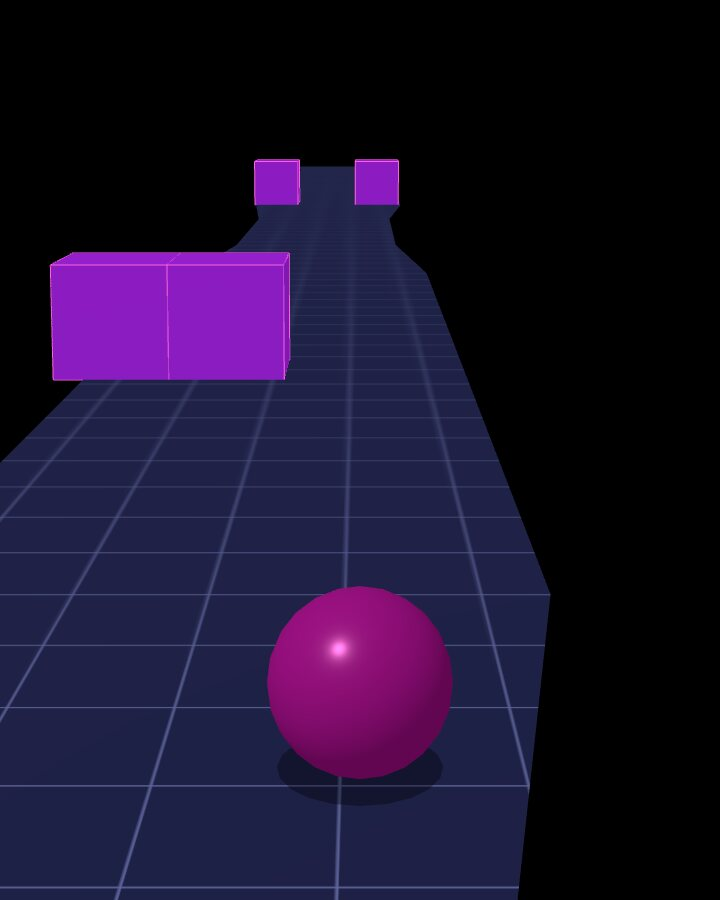
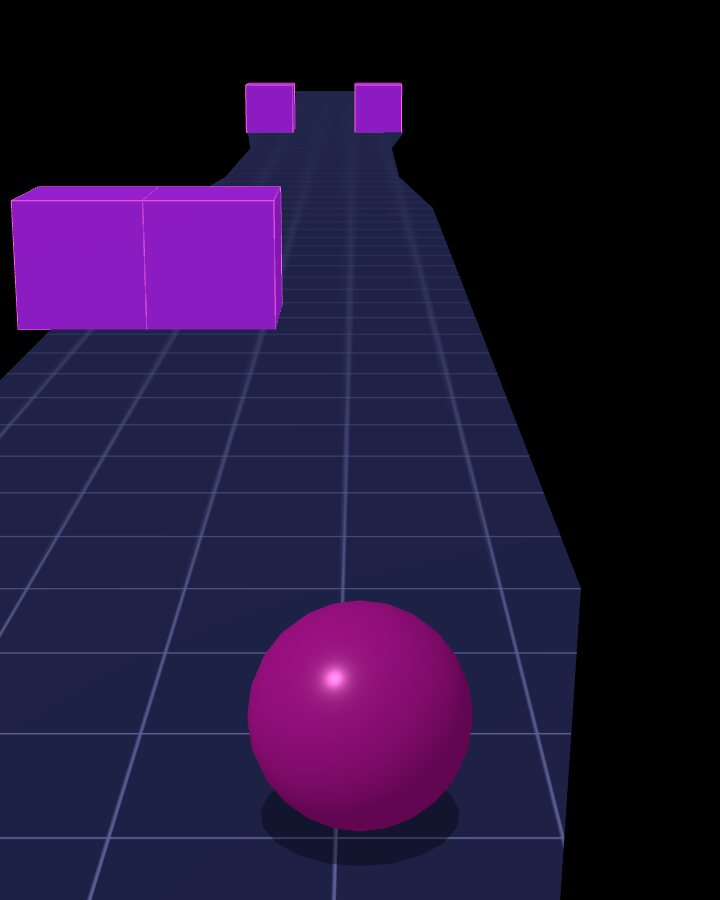
Ball Run: the reference game's controls (camera locked to the ball, instant drag at 4x)
Matt: "This is what we're cloning ... replicate the controls", then on the test page "build it
with x4". Hold and drag moves the ball at once, 31.8 world units per screen height (the test
page's 4x), no smoothing, top speed, or acceleration. The camera is locked to the ball sideways,
so the ball never moves on screen (the recording: 201.7 +-1.5 of 402 px). Framing from the
recording (camera 3.5 up, 6.2 back, FOV 60). Arrow keys unchanged. How to play pictures re-shot.
Replaces the same day's owed distance, pointer acceleration, steer cap, and camera window.

CACHE v1678, IMPORTANT_SINCE 1678.

Claude-Session: https://claude.ai/code/session_01BGm65ZbjktmMvaKLeBqAJx

diff --git a/ball-run/js/config.js b/ball-run/js/config.js
@@ -154,25 +154,16 @@ export const DEFAULT_DIFFICULTY = 'medium';
 // easy to retune from one place; input.js reads it, doesn't own it.
 // Verified from scratch after the item-1 sign fix (BASE_TRACK_WIDTH * BALL_DIAMETER
 // world units of travel over a 0.4 normalized swipe): 5 / 0.4 = 12.5, unchanged.
-export const DRAG_SENSITIVITY = 12.5; // world units of lateral offset per 1.0 of normalized (screen-width-relative) drag
+export const DRAG_SENSITIVITY = 12.5; // arrow keys only since 2026-11-25 (a held key moves 1.6 x this a second, capped); a finger uses DRAG_UNITS_PER_SCREEN_HEIGHT
 export const LATERAL_MAX_SPEED_BASE = 15; // world units/sec at base forward speed
 export const LATERAL_SPEED_SCALE_WITH_FORWARD = 0.5; // fraction of forward-speed growth that adds to lateral max speed
 export const LATERAL_DAMPING = 14; // how fast lateral velocity approaches its target (1/sec)
-// Steering rebuilt (2026-11-25, Matt: "i have to pick up my thumb and move it somewhere else frequently ... it's just not a
-// good steering system"). His touch log (Orbital, Hard): a thumb covers ~100-340 px of a 402 px screen, and press after press
-// ended at a side, lifted 0.1-0.4 s, and started again mid-screen: at 12.5 a move from one lane of a split (13 BW wide) to the
-// other needed ~70% of the screen. Two changes, the way a computer mouse and Rolling Sky-style ball games do it:
-//  1. POINTER ACCELERATION (input.js): a slow, careful drag moves the ball DRAG_GAIN_SLOW x DRAG_SENSITIVITY per screen width
-//     (precision), a quick one up to DRAG_GAIN_FAST x (reach), smoothly between DRAG_V_SLOW and DRAG_V_FAST screen widths/s.
-//     A lane-to-lane move of a split now fits in ~35% of the screen.
-//  2. The ball's own sideways top speed (STEER_MAX_SPEED_BASE, sim.js only) rose from 15 so the ball keeps up with the thumb
-//     instead of trailing it. Track generation still spaces obstacles by LATERAL_MAX_SPEED_BASE (unchanged), so every seed lays
-//     out exactly as before.
-export const DRAG_GAIN_SLOW = 1.1;  // 1.3 for an hour on 2026-11-25: "a bit twitchy now"
-export const DRAG_GAIN_FAST = 1.75; // 2.1 the same hour
-export const DRAG_V_SLOW = 0.5;   // screen widths per second
-export const DRAG_V_FAST = 1.6;
-export const STEER_MAX_SPEED_BASE = 24; // world units/sec at base forward speed (was LATERAL_MAX_SPEED_BASE, 15)
+// STEERING, COPIED FROM MATT'S REFERENCE GAME (2026-11-25, Matt: "This is what we're cloning ... replicate the controls", then,
+// on the test page docs/mockups/ball-run-controls/, "build it with x4"). Hold and drag: the ball moves at once, no smoothing,
+// no top speed, no acceleration. "4x" = 4 x the ground under the finger at the test page's camera, which works out to this
+// many world units per screen HEIGHT of drag (4 x 2 x hypot(3, 6.2) x tan(30 deg) = 31.8), the same on every phone shape.
+// (Three earlier passes the same day, pointer acceleration, a faster steer cap and an owed distance, are gone.)
+export const DRAG_UNITS_PER_SCREEN_HEIGHT = 31.8;
 
 // Camera. Height/back/look-ahead retuned for item 3 (shorter phone canvas):
 // the ball now sits in the lower third of the frame with a generous forward
@@ -182,26 +173,15 @@ export const STEER_MAX_SPEED_BASE = 24; // world units/sec at base forward speed
 // it, yaw aligned to the local tangent) so a curve turns the world around a visually planted ball,
 // with only this small lag/easing producing on-screen lateral motion, never the curve itself.
 export const CAMERA_LAG = 0.12; // lerp factor per 1/CAMERA_LAG_HZ seconds toward the ball's lateral position (per frame until 2026-11-16)
-// CAMERA WINDOW (2026-11-25, Matt, third time: "if i'm way on the left, and i move over to the right quickly, it looks like the
-// ball slowly drifts back to the left after going all the way right. as the camera moves to follow it"). The camera used to
-// chase the ball's sideways position with a lag (CAMERA_LAG), so after every quick move it kept moving after the ball had
-// stopped and the ball slid back toward the middle of the screen. Now the side-scroller "camera window": the camera does not
-// move while the ball is within CAMERA_WINDOW world units of it, and past that it moves exactly as far as the ball goes, at
-// the same moment. When the ball stops, the camera stops: nothing ever slides back. (Height still uses CAMERA_LAG.)
-export const CAMERA_WINDOW = 1.1;
-/** The camera's sideways position after the ball moved to `ball`: unchanged inside the window, else dragged along. */
-export function cameraWindowFollow(cam, ball, win = CAMERA_WINDOW) {
-  const d = ball - cam;
-  if (d > win) return ball - win;
-  if (d < -win) return ball + win;
-  return cam;
-}
+// The camera is LOCKED to the ball sideways (2026-11-25, "build it with x4"): Matt's reference game keeps the ball's centre
+// within 3 px of the middle of the screen for a whole run; the world slides under it. (The CAMERA_LAG chase, then a camera
+// window, the same day, are gone.) Height still follows with CAMERA_LAG.
 export const CAMERA_LAG_HZ = 120; // the frame rate CAMERA_LAG was felt at (Matt's 120 Hz iPhone): the follow is the same at any frame rate
-export const CAMERA_HEIGHT = 3.6;
-export const CAMERA_BACK = 7.5;
-export const CAMERA_LOOK_AHEAD = 10;
-export const CAMERA_LOOK_HEIGHT_FRAC = 0.42; // fraction of CAMERA_HEIGHT the look-at target sits at (lower = steeper downward pitch)
-export const CAMERA_BASE_FOV = 62;
+export const CAMERA_HEIGHT = 3.5;   // the reference's framing (2026-11-25): ball ~29% of the screen wide, ~65% down
+export const CAMERA_BACK = 6.2;
+export const CAMERA_LOOK_AHEAD = 6;
+export const CAMERA_LOOK_HEIGHT_FRAC = 0.186; // fraction of CAMERA_HEIGHT the look-at target sits at (lower = steeper downward pitch)
+export const CAMERA_BASE_FOV = 60;
 export const CAMERA_MAX_FOV_KICK = 7; // added at max speed
 
 // Crash feedback (brief section 9).

diff --git a/ball-run/js/sim.js b/ball-run/js/sim.js
@@ -5,7 +5,7 @@
 
 import {
   SIM_DT, BALL_RADIUS, BALL_DIAMETER, SEGMENT_LENGTH, SEGMENTS_AHEAD, SEGMENTS_BEHIND,
-  OBSTACLE_SIZE, DRAG_SENSITIVITY, STEER_MAX_SPEED_BASE, LATERAL_MAX_SPEED_BASE,
+  OBSTACLE_SIZE, DRAG_SENSITIVITY, DRAG_UNITS_PER_SCREEN_HEIGHT, LATERAL_MAX_SPEED_BASE,
   LATERAL_SPEED_SCALE_WITH_FORWARD, LATERAL_DAMPING, FALL_GRAVITY,
   CRASH_BEAT_MS, difficultyConfig,
 } from './config.js';
@@ -48,7 +48,6 @@ export class Sim {
     this.lateralOffset = 0;  // relative to the track centerline
     this.lateralVelocity = 0;
     this._keySteer = false;  // the sideways speed left over came from an arrow key (it coasts out, as it always did)
-    this.steerOwed = 0;      // world units of finger drag the ball has not travelled yet (see steer())
 
     this.rollAngle = 0;      // ball roll, radians, driven by forward speed (visual, but cheap enough to keep as sim data)
 
@@ -104,43 +103,29 @@ export class Sim {
     else if (this.state === RunState.FALLING) this.stepFalling(dt);
   }
 
-  /** Sideways steering, the same on the ground and in the air.
-   *  A finger drag moves the ball EXACTLY DRAG_SENSITIVITY world units per screen width dragged, however fast
-   *  the swipe (2026-11-25, Matt: "i have to move my thumb a farther distance across my phone to move the ball
-   *  a certain distance"). Until then a drag was turned into a speed and clipped at lateralMax, and the clipped
-   *  part was thrown away: a 40% swipe in 0.15 s moved the ball 20-45% of the way at the start of a run. Now the
-   *  part the ball cannot cover this tick is OWED (steerOwed) and covered on the next ticks, at the same top
-   *  sideways top speed (STEER_MAX_SPEED_BASE; Track's obstacle spacing reads its own LATERAL_MAX_SPEED_BASE, unchanged).
-   *  Arrow keys are unchanged: a steady speed while held. */
+  /** Sideways steering, the same on the ground and in the air (2026-11-25, Matt's reference game, "build it with x4"):
+   *  a finger drag moves the ball AT ONCE, DRAG_UNITS_PER_SCREEN_HEIGHT world units per screen height dragged, with no
+   *  smoothing and no top speed. Arrow keys are unchanged (a steady speed while held, coasting out after release). */
   steer(dt, dragAxis, keyAxis) {
-    const lateralMax = STEER_MAX_SPEED_BASE * (1 + LATERAL_SPEED_SCALE_WITH_FORWARD * (this.speed / this.cfg.baseSpeed - 1));
     const damp = Math.min(1, LATERAL_DAMPING * dt);
-    // World +X renders as screen-LEFT (see stepPlaying), hence the minus.
-    if (dragAxis !== 0) this.steerOwed += -dragAxis * DRAG_SENSITIVITY;
-    if (dragAxis === 0 && this.steerOwed === 0) {
-      if (keyAxis === 0 && !this._keySteer) {
-        // a finger drag already finished exactly where it was owed: no drift, only the lean (render.js) settles
-        this.lateralVelocity *= 1 - damp;
-        return;
-      }
-      this._keySteer = true; // an arrow key's speed coasts out after release, as it always did (until the next drag)
-      const commanded = -keyAxis * 1.6 * DRAG_SENSITIVITY;
-      // arrow keys keep their old top speed exactly (LATERAL_MAX_SPEED_BASE); only finger steering got faster
-      const keyMax = LATERAL_MAX_SPEED_BASE * (1 + LATERAL_SPEED_SCALE_WITH_FORWARD * (this.speed / this.cfg.baseSpeed - 1));
-      const clamped = Math.max(-keyMax, Math.min(keyMax, commanded));
-      this.lateralVelocity += (clamped - this.lateralVelocity) * damp;
-      this.lateralOffset += this.lateralVelocity * dt;
+    if (dragAxis !== 0) {
+      // World +X renders as screen-LEFT (see stepPlaying), hence the minus.
+      const move = -dragAxis * DRAG_UNITS_PER_SCREEN_HEIGHT;
+      this.lateralOffset += move;
+      this.lateralVelocity = move / dt; // read only by render.js for the ball's lean
+      this._keySteer = false;
       return;
     }
-    this._keySteer = false;
-    const owed = this.steerOwed;
-    const want = Math.max(-lateralMax, Math.min(lateralMax, owed / dt));
-    this.lateralVelocity += (want - this.lateralVelocity) * damp;
-    let move = this.lateralVelocity * dt;
-    // never past what is owed (no overshoot and wobble back): finish exactly on it
-    if ((owed > 0 && move > owed) || (owed < 0 && move < owed)) { move = owed; this.lateralVelocity = move / dt; }
-    this.lateralOffset += move;
-    this.steerOwed = Math.abs(owed - move) < 1e-6 ? 0 : owed - move;
+    if (keyAxis === 0 && !this._keySteer) {
+      this.lateralVelocity *= 1 - damp; // no drift: only the lean settles
+      return;
+    }
+    this._keySteer = true; // an arrow key's speed coasts out after release, as it always did (until the next drag)
+    const keyMax = LATERAL_MAX_SPEED_BASE * (1 + LATERAL_SPEED_SCALE_WITH_FORWARD * (this.speed / this.cfg.baseSpeed - 1));
+    const commanded = -keyAxis * 1.6 * DRAG_SENSITIVITY; // arrow keys keep their old speed
+    const clamped = Math.max(-keyMax, Math.min(keyMax, commanded));
+    this.lateralVelocity += (clamped - this.lateralVelocity) * damp;
+    this.lateralOffset += this.lateralVelocity * dt;
   }
 
   stepPlaying(dt, dragAxis, keyAxis) {

diff --git a/sw.js b/sw.js
@@ -4,8 +4,8 @@
 // build at its next visit to the launcher (never mid-game), instead of waiting for a fresh open
 // (js/hub.js, "FEWER UPDATES FOR PLAYERS"). Raise it to the new CACHE number on a deploy that every
 // phone should get now; leave it alone for small fixes.
-const IMPORTANT_SINCE = 1677;
-const CACHE = 'game-hub-v1677';
+const IMPORTANT_SINCE = 1678;
+const CACHE = 'game-hub-v1678';
 
 const ASSETS = [
   './',
@@ -1213,26 +1213,26 @@ const REST_MANIFEST = {
   './dots-boxes/js/strings.js': '3dbd1717e2',
   './ball-run/index.html': '5907192c6a',
   './ball-run/css/ball-run.css': '99e29fa753',
-  './ball-run/js/ui.js': 'a8cae60a44',
-  './ball-run/js/config.js': '938c0667b4',
+  './ball-run/js/ui.js': 'a5c07b25fb',
+  './ball-run/js/config.js': '95ac0ebcda',
   './ball-run/js/track.js': '7e7c04a63d',
-  './ball-run/js/sim.js': 'f6f9bdcf98',
-  './ball-run/js/input.js': '24a4169ca0',
-  './ball-run/js/render.js': '5130123bf5',
+  './ball-run/js/sim.js': 'c52bc9c3b1',
+  './ball-run/js/input.js': 'a6b2d0d7b0',
+  './ball-run/js/render.js': '19d43a934b',
   './ball-run/js/strings.js': 'd722abd6d2',
   './ball-run/vendor/three.module.min.js': 'd719de9cf8',
-  './ball-run/img/help/blocks-classic.jpg': 'a917e7c316',
-  './ball-run/img/help/blocks-orbital.jpg': '9acd4cb541',
-  './ball-run/img/help/droprise.jpg': 'f0133cff3f',
-  './ball-run/img/help/edge-classic.jpg': '47df7006c8',
-  './ball-run/img/help/edge-orbital.jpg': '2c513886d1',
-  './ball-run/img/help/hole.jpg': '7a274b64b0',
-  './ball-run/img/help/jump.jpg': '8bf1f01663',
-  './ball-run/img/help/pickups.jpg': '631fdc822d',
-  './ball-run/img/help/steer-classic.jpg': '307c7de2f2',
-  './ball-run/img/help/steer-orbital.jpg': '659f406ebf',
-  './ball-run/img/help/tunnel-classic.jpg': 'f8670a79b0',
-  './ball-run/img/help/tunnel-orbital.jpg': '2b224fad08',
+  './ball-run/img/help/blocks-classic.jpg': '93cbf4e5ea',
+  './ball-run/img/help/blocks-orbital.jpg': '15987c6703',
+  './ball-run/img/help/droprise.jpg': 'b0685f0db3',
+  './ball-run/img/help/edge-classic.jpg': '401f116370',
+  './ball-run/img/help/edge-orbital.jpg': '4679563f60',
+  './ball-run/img/help/hole.jpg': 'e49d534f37',
+  './ball-run/img/help/jump.jpg': '15f3de8c9f',
+  './ball-run/img/help/pickups.jpg': '5e77460e77',
+  './ball-run/img/help/steer-classic.jpg': '6242818cda',
+  './ball-run/img/help/steer-orbital.jpg': 'b9559466ce',
+  './ball-run/img/help/tunnel-classic.jpg': '1e22c07ac7',
+  './ball-run/img/help/tunnel-orbital.jpg': 'ab7d174f81',
   './boggle/': '2dd28572e9',
   './boggle/index.html': '2dd28572e9',
   './boggle/css/boggle.css': '316f33537e',

diff --git a/ball-run/js/input.js b/ball-run/js/input.js
@@ -3,46 +3,29 @@
 // resets it once per tick (consumeDragAxis), so input never mutates game state
 // directly from the event handler.
 
-import { DRAG_GAIN_SLOW, DRAG_GAIN_FAST, DRAG_V_SLOW, DRAG_V_FAST } from './config.js';
-
 const ARROW_AXIS = { ArrowLeft: -1, ArrowRight: 1 };
-
-/** Pointer acceleration (config.js, "Steering rebuilt"): the gain for a thumb moving at `v` screen widths per second. */
-export function dragGain(v) {
-  if (!(v > DRAG_V_SLOW)) return DRAG_GAIN_SLOW;
-  if (v >= DRAG_V_FAST) return DRAG_GAIN_FAST;
-  const f = (v - DRAG_V_SLOW) / (DRAG_V_FAST - DRAG_V_SLOW);
-  return DRAG_GAIN_SLOW + (DRAG_GAIN_FAST - DRAG_GAIN_SLOW) * f * f * (3 - 2 * f); // smoothstep: no sudden jump
-}
 
 export class InputController {
   constructor(el) {
     this.el = el;
     this.dragging = false;
     this.lastX = 0;
-    this.lastT = 0;
-    this._v = 0;             // smoothed thumb speed, screen widths per second
-    this._axisAccum = 0; // normalized (delta-x / element width) x the acceleration gain, reset on consume
+    this._axisAccum = 0; // delta-x / element HEIGHT since the last consume
     this._keyLeft = false;
     this._keyRight = false;
 
     this._onPointerDown = (e) => {
       this.dragging = true;
       this.lastX = e.clientX;
-      this.lastT = e.timeStamp;
-      this._v = 0;
+
       try { this.el.setPointerCapture(e.pointerId); } catch { /* not all pointer types support capture */ }
     };
     this._onPointerMove = (e) => {
       if (!this.dragging) return;
-      const w = this.el.clientWidth || 1;
-      const dx = (e.clientX - this.lastX) / w;
-      const dt = Math.max(1, e.timeStamp - this.lastT) / 1000;
-      // thumb speed, lightly smoothed so one jittery event cannot jump the gain
-      this._v = this._v * 0.5 + (Math.abs(dx) / dt) * 0.5;
-      this._axisAccum += dx * dragGain(this._v);
+      // in screen HEIGHTS (config.js DRAG_UNITS_PER_SCREEN_HEIGHT), no gain, no smoothing (2026-11-25)
+      const h = this.el.clientHeight || 1;
+      this._axisAccum += (e.clientX - this.lastX) / h;
       this.lastX = e.clientX;
-      this.lastT = e.timeStamp;
     };
     this._onPointerUp = () => { this.dragging = false; };
     this._onKeyDown = (e) => {

diff --git a/ball-run/js/ui.js b/ball-run/js/ui.js
@@ -385,19 +385,19 @@ function cuesOn() { return true; }
 function helpImg(name) { return new URL(`../img/help/${name}.jpg`, import.meta.url).href; }
 const CUE_HELP_CLASSIC = [
   { img: 'steer-classic', key: 'hp_steer', mark: 'steer' },
-  { img: 'blocks-classic', key: 'hp_blocks', mark: [115, 132, 'r'] },
-  { img: 'edge-classic', key: 'hp_edge', mark: [207, 256, 'r'] },
-  { img: 'tunnel-classic', key: 'hp_tunnel', mark: [184, 120, 'r'] },
+  { img: 'blocks-classic', key: 'hp_blocks', mark: [107, 93, 'r'] },
+  { img: 'edge-classic', key: 'hp_edge', mark: [209, 243, 'r'] },
+  { img: 'tunnel-classic', key: 'hp_tunnel', mark: [185, 94, 'r'] },
 ];
 const CUE_HELP_ORBITAL = [
   { img: 'steer-orbital', key: 'hp_steer', mark: 'steer' },
-  { img: 'blocks-orbital', key: 'hp_blocks', mark: [245, 131, 'l'] },
-  { img: 'edge-orbital', key: 'hp_edge', mark: [207, 256, 'r'] },
-  { img: 'tunnel-orbital', key: 'hp_tunnel', mark: [180, 120, 'r'] },
-  { img: 'hole', key: 'hp_hole', mark: [298, 200, 'l'] },
-  { img: 'jump', key: 'hp_jump', mark: [119, 161, 'l'] },
-  { img: 'droprise', key: 'hp_droprise', mark: [130, 116, 'r'] },
-  { img: 'pickups', key: 'hp_pickups', mark: [212, 160, 'r'] },
+  { img: 'blocks-orbital', key: 'hp_blocks', mark: [252, 92, 'l'] },
+  { img: 'edge-orbital', key: 'hp_edge', mark: [209, 243, 'r'] },
+  { img: 'tunnel-orbital', key: 'hp_tunnel', mark: [180, 98, 'r'] },
+  { img: 'hole', key: 'hp_hole', mark: [312, 177, 'l'] },
+  { img: 'jump', key: 'hp_jump', mark: [113, 132, 'l'] },
+  { img: 'droprise', key: 'hp_droprise', mark: [123, 74, 'r'] },
+  { img: 'pickups', key: 'hp_pickups', mark: [216, 139, 'r'] },
 ];
 
 /** The overlay drawn on a help picture: shape only (white with a dark outline), never colour alone. */

diff --git a/ball-run/js/render.js b/ball-run/js/render.js
@@ -7,7 +7,7 @@
 import * as THREE from '../vendor/three.module.min.js';
 import {
   SEGMENT_LENGTH, SEGMENTS_AHEAD, SEGMENTS_BEHIND, BALL_RADIUS, BALL_DIAMETER, OBSTACLE_SIZE, TILE_SIZE,
-  CAMERA_LAG, CAMERA_LAG_HZ, cameraWindowFollow, CAMERA_HEIGHT, CAMERA_BACK, CAMERA_LOOK_AHEAD, CAMERA_LOOK_HEIGHT_FRAC,
+  CAMERA_LAG, CAMERA_LAG_HZ, CAMERA_HEIGHT, CAMERA_BACK, CAMERA_LOOK_AHEAD, CAMERA_LOOK_HEIGHT_FRAC,
   CAMERA_BASE_FOV, CAMERA_MAX_FOV_KICK, CRASH_SHAKE_MS, mapConfig,
   CUE_COLORS, DECK_DEPTH, CUE_FADE_NEAR, CUE_FADE_FAR, RUNUP_SEGS,
 } from './config.js';
@@ -1124,7 +1124,7 @@ export class Renderer {
     const dt = this._camLast == null ? 1 / CAMERA_LAG_HZ : Math.min(0.1, Math.max(0, (now - this._camLast) / 1000));
     this._camLast = now;
     const k = 1 - Math.pow(1 - CAMERA_LAG, dt * CAMERA_LAG_HZ);
-    this._camLagLateral = cameraWindowFollow(this._camLagLateral, sim.lateralOffset); // no lag: see CAMERA_WINDOW
+    this._camLagLateral = sim.lateralOffset; // LOCKED to the ball sideways, as in Matt's reference game (config.js)
     this._camLagY += (sim.y - this._camLagY) * k;
 
     const camZ = sim.z - CAMERA_BACK; // matches the pre-fix camera's fixed CAMERA_BACK offset behind the ball
